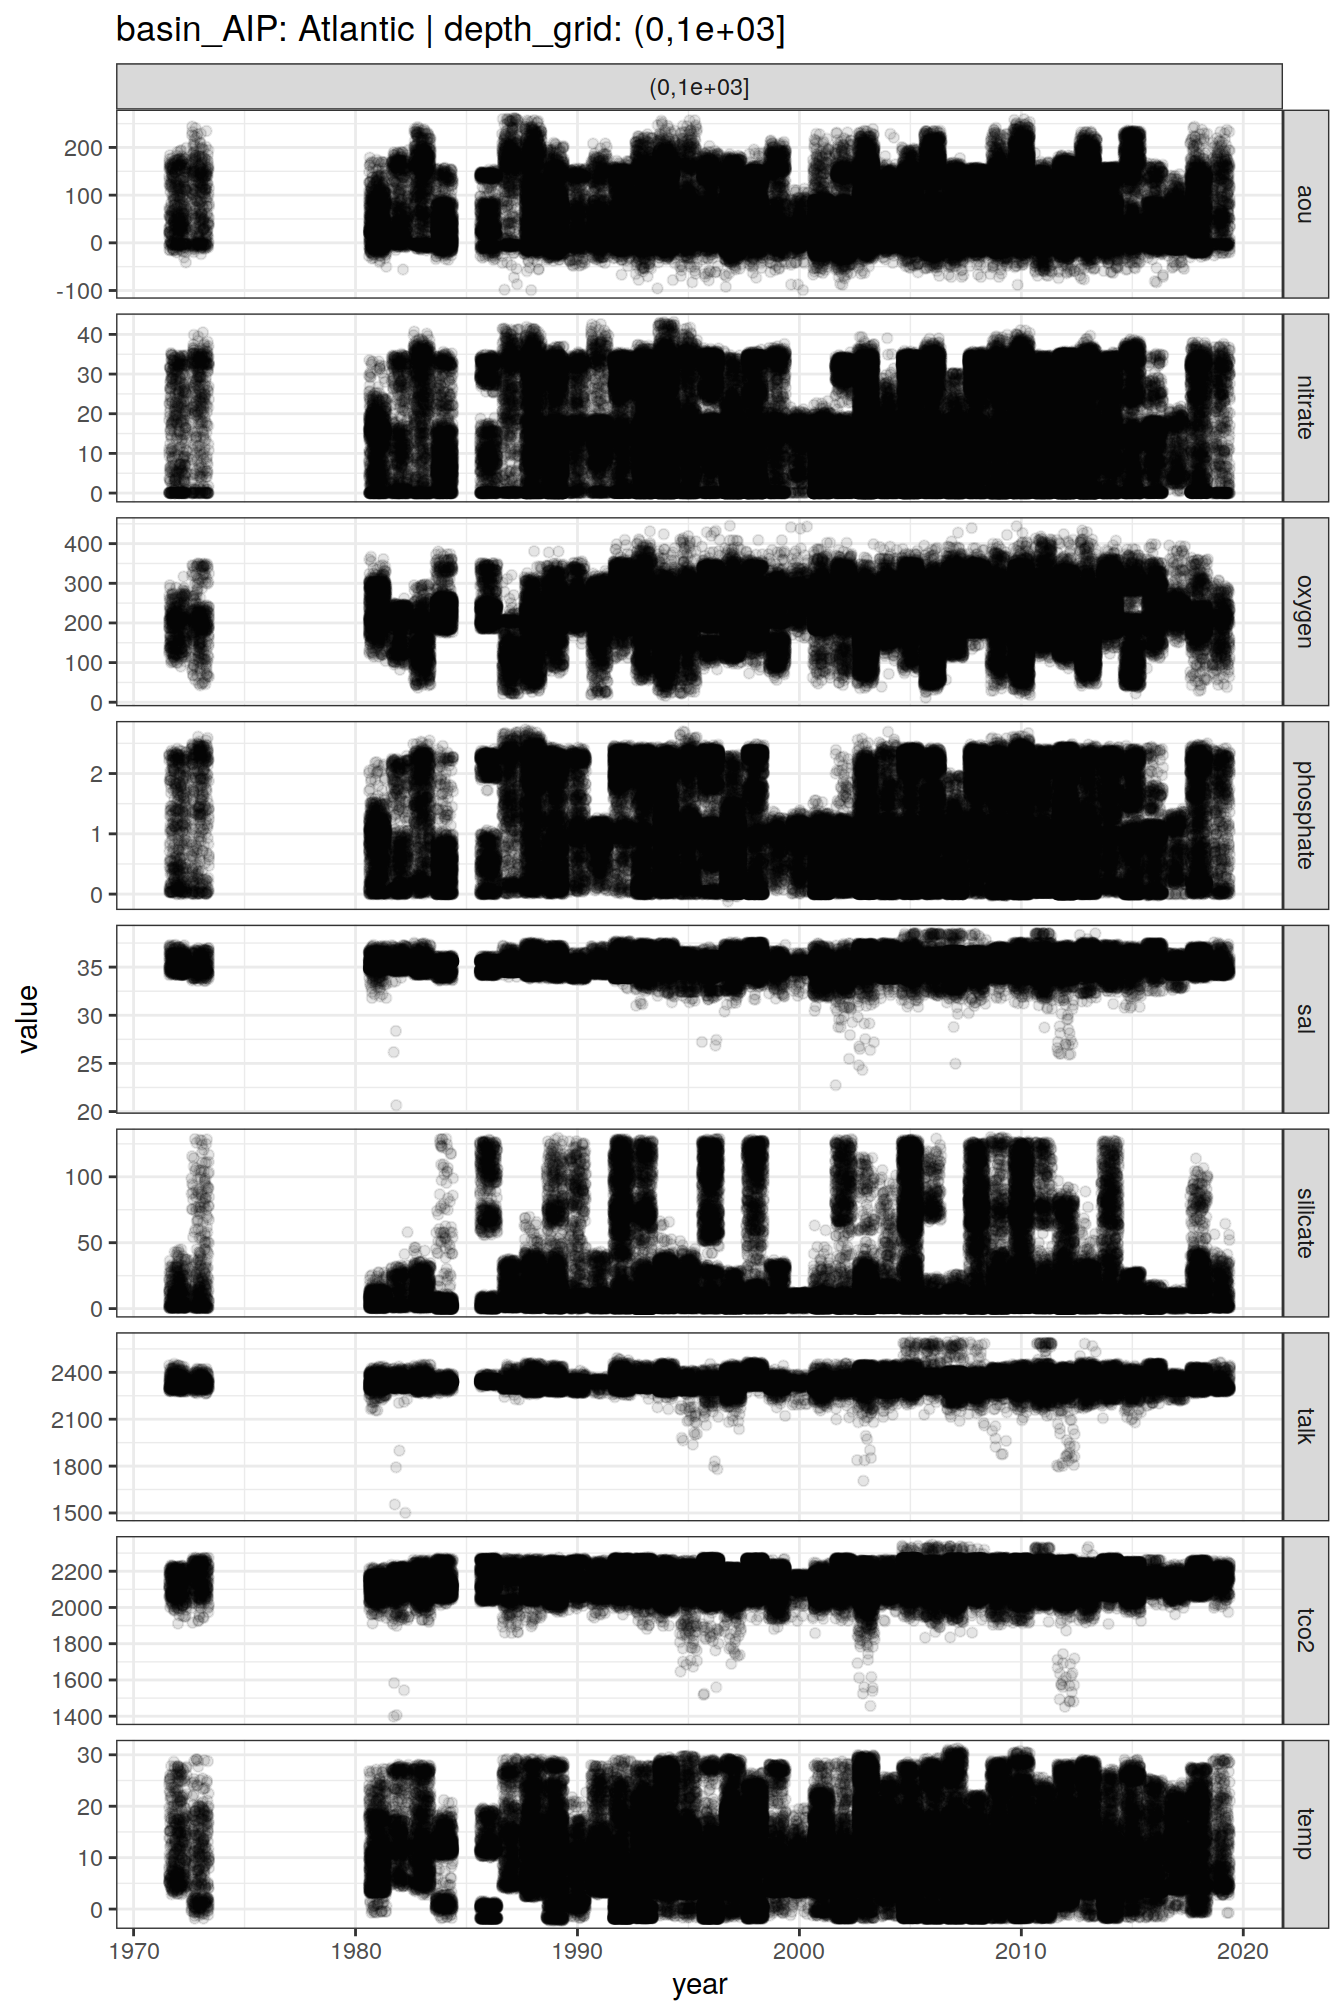
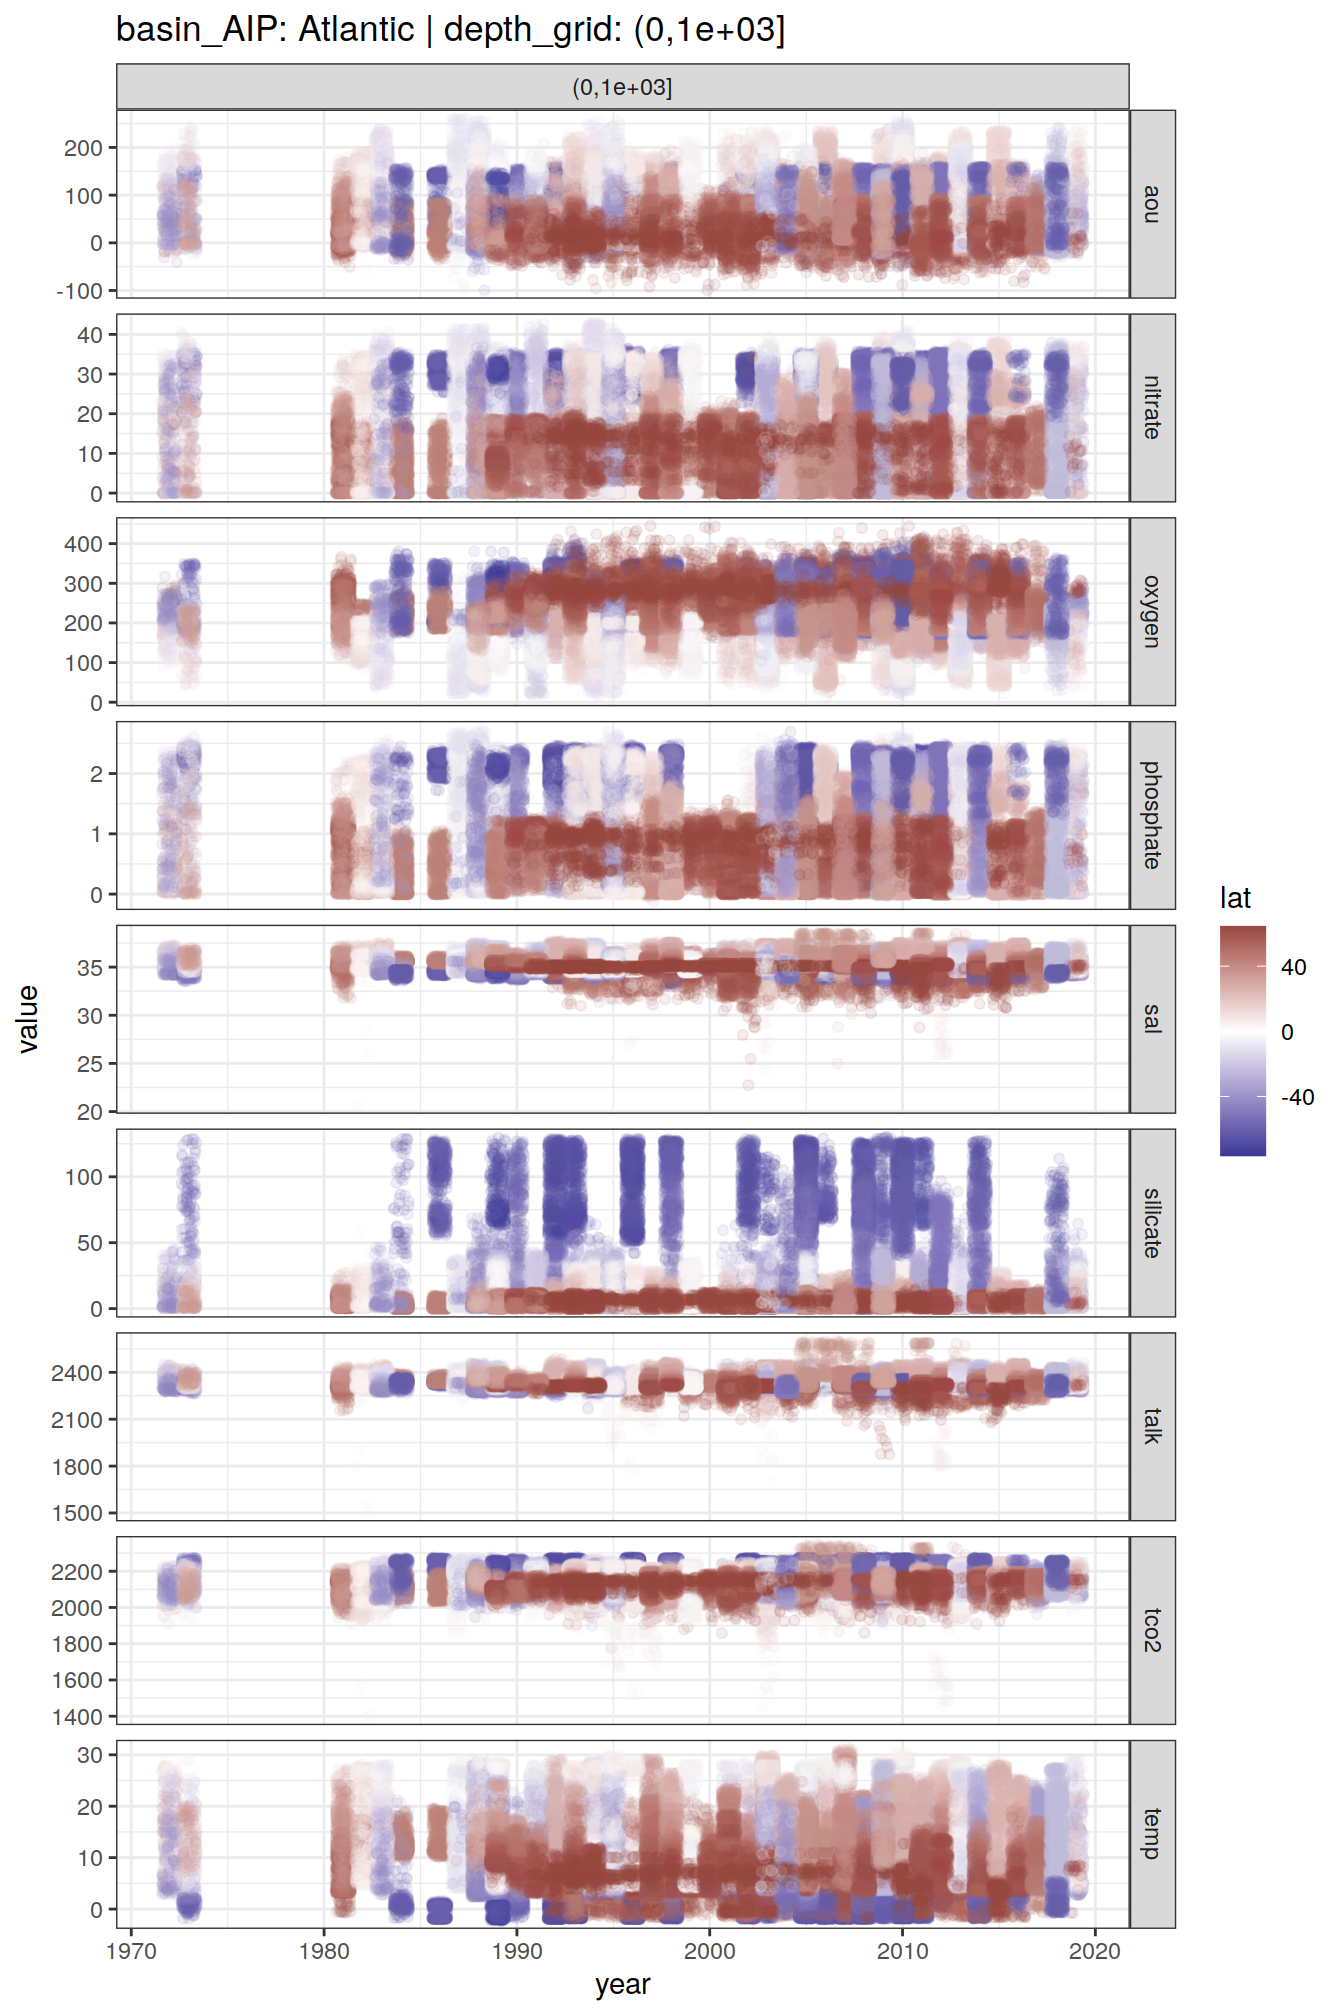
Build site.

diff --git a/docs/read_GLODAPv2_2021.html b/docs/read_GLODAPv2_2021.html
@@ -560,16 +560,16 @@ This reproducible <a href="http://rmarkdown.rstudio.com">R Markdown</a> analysis
 <div class="panel panel-default">
 <div class="panel-heading">
 <p class="panel-title">
-<a data-toggle="collapse" data-parent="#workflowr-checks" href="#strongRepositoryversionstrongahrefhttpsgithubcomjensdanielmuelleremlrobspreprocessingtreed6fb0dc090d716d7e80e0d55aed2c8dff0f1df7ctargetblankd6fb0dca"> <span class="glyphicon glyphicon-ok text-success" aria-hidden="true"></span> <strong>Repository version:</strong> <a href="https://github.com/jens-daniel-mueller/emlr_obs_preprocessing/tree/d6fb0dc090d716d7e80e0d55aed2c8dff0f1df7c" target="_blank">d6fb0dc</a> </a>
+<a data-toggle="collapse" data-parent="#workflowr-checks" href="#strongRepositoryversionstrongahrefhttpsgithubcomjensdanielmuelleremlrobspreprocessingtreedb93d9f1f29d8b88c9e471cdbe7b61ccadd80557targetblankdb93d9fa"> <span class="glyphicon glyphicon-ok text-success" aria-hidden="true"></span> <strong>Repository version:</strong> <a href="https://github.com/jens-daniel-mueller/emlr_obs_preprocessing/tree/db93d9f1f29d8b88c9e471cdbe7b61ccadd80557" target="_blank">db93d9f</a> </a>
 </p>
 </div>
[2 lines of base64/hex data omitted]
 <div class="panel-body">
 <p>
 Great! You are using Git for version control. Tracking code development and connecting the code version to the results is critical for reproducibility.
 </p>
 <p>
-The results in this page were generated with repository version <a href="https://github.com/jens-daniel-mueller/emlr_obs_preprocessing/tree/d6fb0dc090d716d7e80e0d55aed2c8dff0f1df7c" target="_blank">d6fb0dc</a>. See the <em>Past versions</em> tab to see a history of the changes made to the R Markdown and HTML files.
+The results in this page were generated with repository version <a href="https://github.com/jens-daniel-mueller/emlr_obs_preprocessing/tree/db93d9f1f29d8b88c9e471cdbe7b61ccadd80557" target="_blank">db93d9f</a>. See the <em>Past versions</em> tab to see a history of the changes made to the R Markdown and HTML files.
 </p>
 <p>
 Note that you need to be careful to ensure that all relevant files for the analysis have been committed to Git prior to generating the results (you can use <code>wflow_publish</code> or <code>wflow_git_commit</code>). workflowr only checks the R Markdown file, but you know if there are other scripts or data files that it depends on. Below is the status of the Git repository when the results were generated:
@@ -617,6 +617,40 @@ Message
 </tr>
 </thead>
 <tbody>
+<tr>
+<td>
+Rmd
+</td>
+<td>
+<a href="https://github.com/jens-daniel-mueller/emlr_obs_preprocessing/blob/db93d9f1f29d8b88c9e471cdbe7b61ccadd80557/analysis/read_GLODAPv2_2021.Rmd" target="_blank">db93d9f</a>
+</td>
+<td>
+jens-daniel-mueller
+</td>
+<td>
+2021-10-27
+</td>
+<td>
+added time series plots
+</td>
+</tr>
+<tr>
+<td>
+html
+</td>
+<td>
+<a href="https://rawcdn.githack.com/jens-daniel-mueller/emlr_obs_preprocessing/7db7e6a8e73905f0990ca5a4bcea85d9e059a6fe/docs/read_GLODAPv2_2021.html" target="_blank">7db7e6a</a>
+</td>
+<td>
+jens-daniel-mueller
+</td>
+<td>
+2021-10-27
+</td>
+<td>
+Build site.
+</td>
+</tr>
 <tr>
 <td>
 Rmd
@@ -1626,7 +1660,7 @@ all_plots</code></pre>
 <div id="time-series" class="section level2" number="3.6">
 <h2 number="3.6"><span class="header-section-number">3.6</span> Time series</h2>
 <pre class="r"><code>GLODAP_time_series &lt;- GLODAP %&gt;% 
-  select(year, basin_AIP, depth, sal, temp,
+  select(year, basin_AIP, lat, depth, sal, temp,
          oxygen, aou, nitrate, silicate, phosphate,
          tco2, talk)
 
@@ -1636,18 +1670,20 @@ GLODAP_time_series &lt;- GLODAP_time_series %&gt;%
 GLODAP_time_series &lt;- GLODAP_time_series %&gt;% 
   pivot_longer(sal:talk,
                names_to = &quot;parameter&quot;,
-               values_to = &quot;value&quot;)
+               values_to = &quot;value&quot;) %&gt;% 
+  filter(!is.na(value),
+         !is.na(depth_grid))
 
 GLODAP_time_series %&gt;%
   group_split(basin_AIP, depth_grid) %&gt;%
-  # head(1) %&gt;%
+  head(1) %&gt;%
   map(
     ~ ggplot(data = .x,
-             aes(year, value)) +
+             aes(year, value, col = lat)) +
       geom_jitter(alpha = 0.1) +
+      scale_color_divergent() +
       facet_grid(parameter ~ depth_grid,
                  scales = &quot;free_y&quot;) +
-      # geom_smooth() +
       labs(title = paste(
         &quot;basin_AIP:&quot;,
         unique(.x$basin_AIP),
@@ -1681,6 +1717,17 @@ Date
 <tbody>
 <tr>
 <td>
+<a href="https://github.com/jens-daniel-mueller/emlr_obs_preprocessing/blob/7db7e6a8e73905f0990ca5a4bcea85d9e059a6fe/docs/figure/read_GLODAPv2_2021.Rmd/timeseries-1.png" target="_blank">7db7e6a</a>
+</td>
+<td>
+jens-daniel-mueller
+</td>
+<td>
+2021-10-27
+</td>
+</tr>
+<tr>
+<td>
 <a href="https://github.com/jens-daniel-mueller/emlr_obs_preprocessing/blob/68d67e7f64bfb27cff6fcb325e342e36af822b0c/docs/figure/read_GLODAPv2_2021.Rmd/timeseries-1.png" target="_blank">68d67e7</a>
 </td>
 <td>
@@ -1694,81 +1741,6 @@ jens-daniel-mueller
 </table>
 </div>
 </div>
-<pre><code>
-[[2]]</code></pre>
-<p><img src="figure/read_GLODAPv2_2021.Rmd/timeseries-2.png" width="672" style="display: block; margin: auto;" /></p>
-<pre><code>
-[[3]]</code></pre>
-<p><img src="figure/read_GLODAPv2_2021.Rmd/timeseries-3.png" width="672" style="display: block; margin: auto;" /></p>
-<pre><code>
-[[4]]</code></pre>
-<p><img src="figure/read_GLODAPv2_2021.Rmd/timeseries-4.png" width="672" style="display: block; margin: auto;" /></p>
-<pre><code>
-[[5]]</code></pre>
-<p><img src="figure/read_GLODAPv2_2021.Rmd/timeseries-5.png" width="672" style="display: block; margin: auto;" /></p>
-<pre><code>
-[[6]]</code></pre>
-<p><img src="figure/read_GLODAPv2_2021.Rmd/timeseries-6.png" width="672" style="display: block; margin: auto;" /></p>
-<pre><code>
-[[7]]</code></pre>
-<p><img src="figure/read_GLODAPv2_2021.Rmd/timeseries-7.png" width="672" style="display: block; margin: auto;" /></p>
-<pre><code>
-[[8]]</code></pre>
-<p><img src="figure/read_GLODAPv2_2021.Rmd/timeseries-8.png" width="672" style="display: block; margin: auto;" /></p>
-<pre><code>
-[[9]]</code></pre>
-<p><img src="figure/read_GLODAPv2_2021.Rmd/timeseries-9.png" width="672" style="display: block; margin: auto;" /></p>
-<pre><code>
-[[10]]</code></pre>
-<p><img src="figure/read_GLODAPv2_2021.Rmd/timeseries-10.png" width="672" style="display: block; margin: auto;" /></p>
-<pre><code>
-[[11]]</code></pre>
-<p><img src="figure/read_GLODAPv2_2021.Rmd/timeseries-11.png" width="672" style="display: block; margin: auto;" /></p>
-<pre><code>
-[[12]]</code></pre>
-<p><img src="figure/read_GLODAPv2_2021.Rmd/timeseries-12.png" width="672" style="display: block; margin: auto;" /></p>
-<pre><code>
-[[13]]</code></pre>
-<p><img src="figure/read_GLODAPv2_2021.Rmd/timeseries-13.png" width="672" style="display: block; margin: auto;" /></p>
-<pre><code>
-[[14]]</code></pre>
-<p><img src="figure/read_GLODAPv2_2021.Rmd/timeseries-14.png" width="672" style="display: block; margin: auto;" /></p>
-<pre><code>
-[[15]]</code></pre>
-<p><img src="figure/read_GLODAPv2_2021.Rmd/timeseries-15.png" width="672" style="display: block; margin: auto;" /></p>
-<pre><code>
-[[16]]</code></pre>
-<p><img src="figure/read_GLODAPv2_2021.Rmd/timeseries-16.png" width="672" style="display: block; margin: auto;" /></p>
-<pre><code>
-[[17]]</code></pre>
-<p><img src="figure/read_GLODAPv2_2021.Rmd/timeseries-17.png" width="672" style="display: block; margin: auto;" /></p>
-<pre><code>
-[[18]]</code></pre>
-<p><img src="figure/read_GLODAPv2_2021.Rmd/timeseries-18.png" width="672" style="display: block; margin: auto;" /></p>
-<pre><code>
-[[19]]</code></pre>
-<p><img src="figure/read_GLODAPv2_2021.Rmd/timeseries-19.png" width="672" style="display: block; margin: auto;" /></p>
-<pre><code>
-[[20]]</code></pre>
-<p><img src="figure/read_GLODAPv2_2021.Rmd/timeseries-20.png" width="672" style="display: block; margin: auto;" /></p>
-<pre><code>
-[[21]]</code></pre>
-<p><img src="figure/read_GLODAPv2_2021.Rmd/timeseries-21.png" width="672" style="display: block; margin: auto;" /></p>
-<pre><code>
-[[22]]</code></pre>
-<p><img src="figure/read_GLODAPv2_2021.Rmd/timeseries-22.png" width="672" style="display: block; margin: auto;" /></p>
-<pre><code>
-[[23]]</code></pre>
-<p><img src="figure/read_GLODAPv2_2021.Rmd/timeseries-23.png" width="672" style="display: block; margin: auto;" /></p>
-<pre><code>
-[[24]]</code></pre>
-<p><img src="figure/read_GLODAPv2_2021.Rmd/timeseries-24.png" width="672" style="display: block; margin: auto;" /></p>
-<pre><code>
-[[25]]</code></pre>
-<p><img src="figure/read_GLODAPv2_2021.Rmd/timeseries-25.png" width="672" style="display: block; margin: auto;" /></p>
-<pre><code>
-[[26]]</code></pre>
-<p><img src="figure/read_GLODAPv2_2021.Rmd/timeseries-26.png" width="672" style="display: block; margin: auto;" /></p>
 </div>
 </div>
 <div id="canyon-b" class="section level1" number="4">
